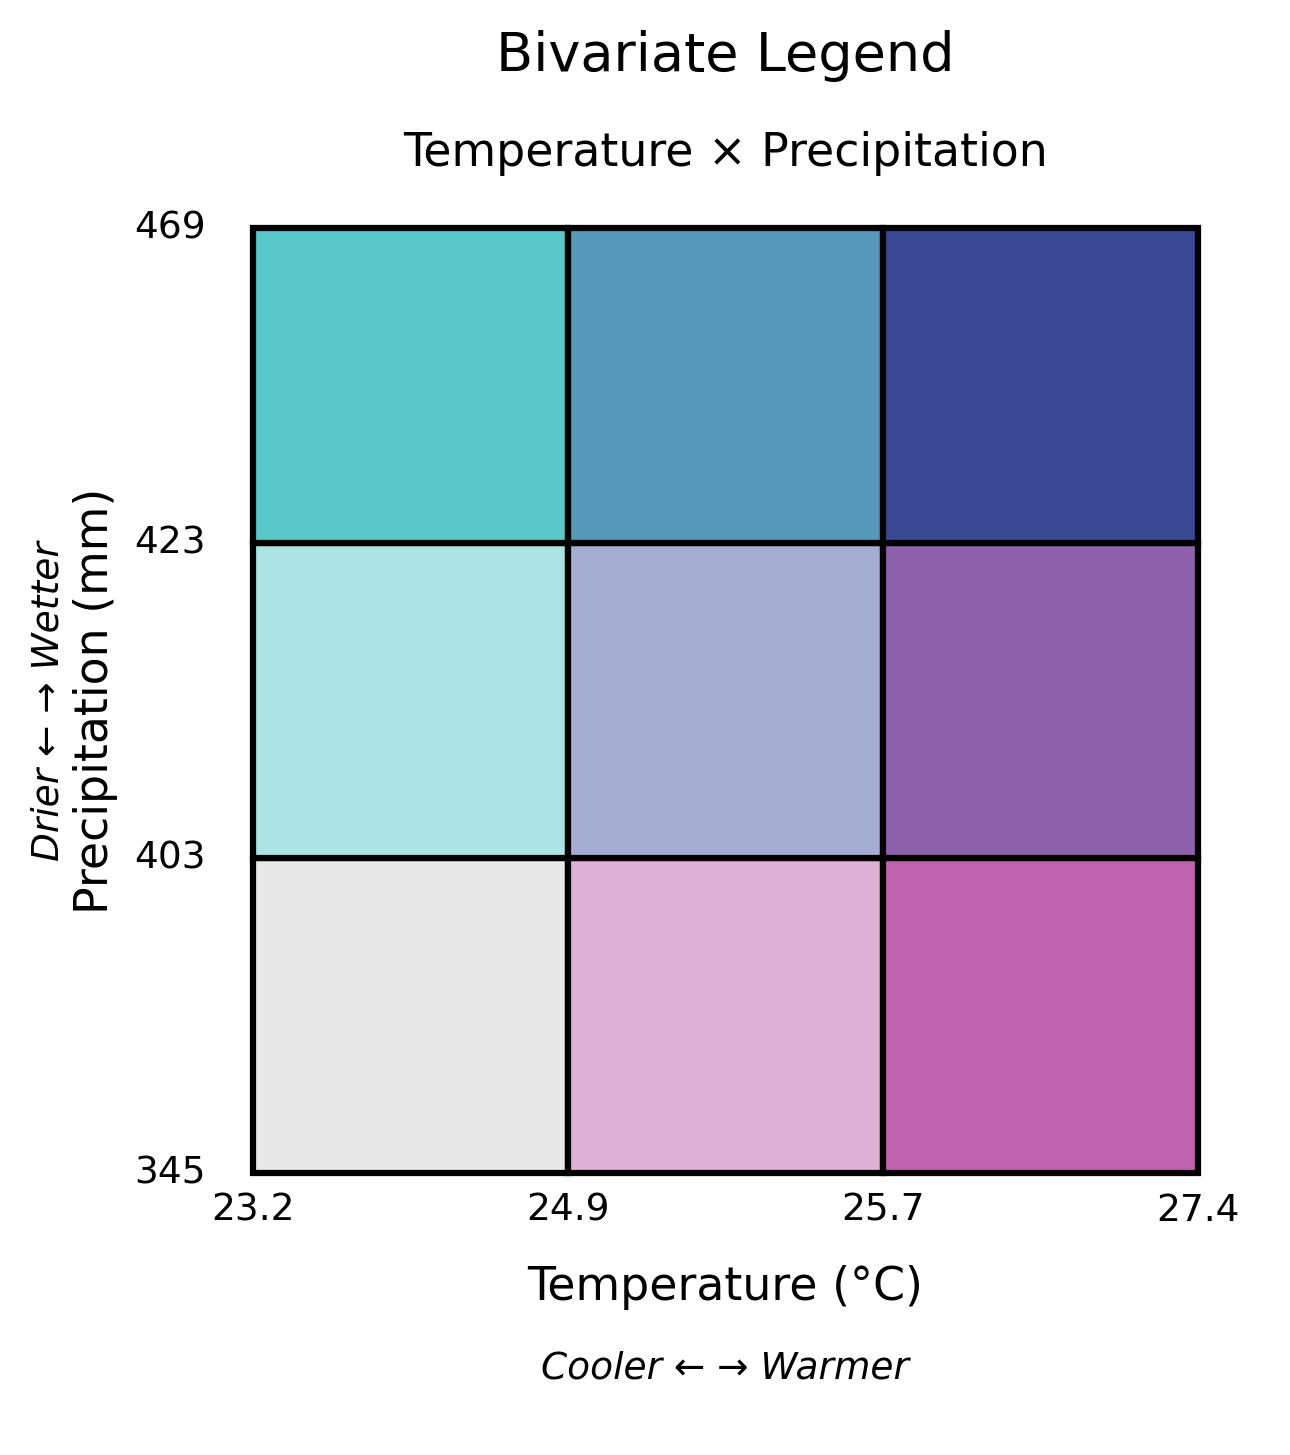
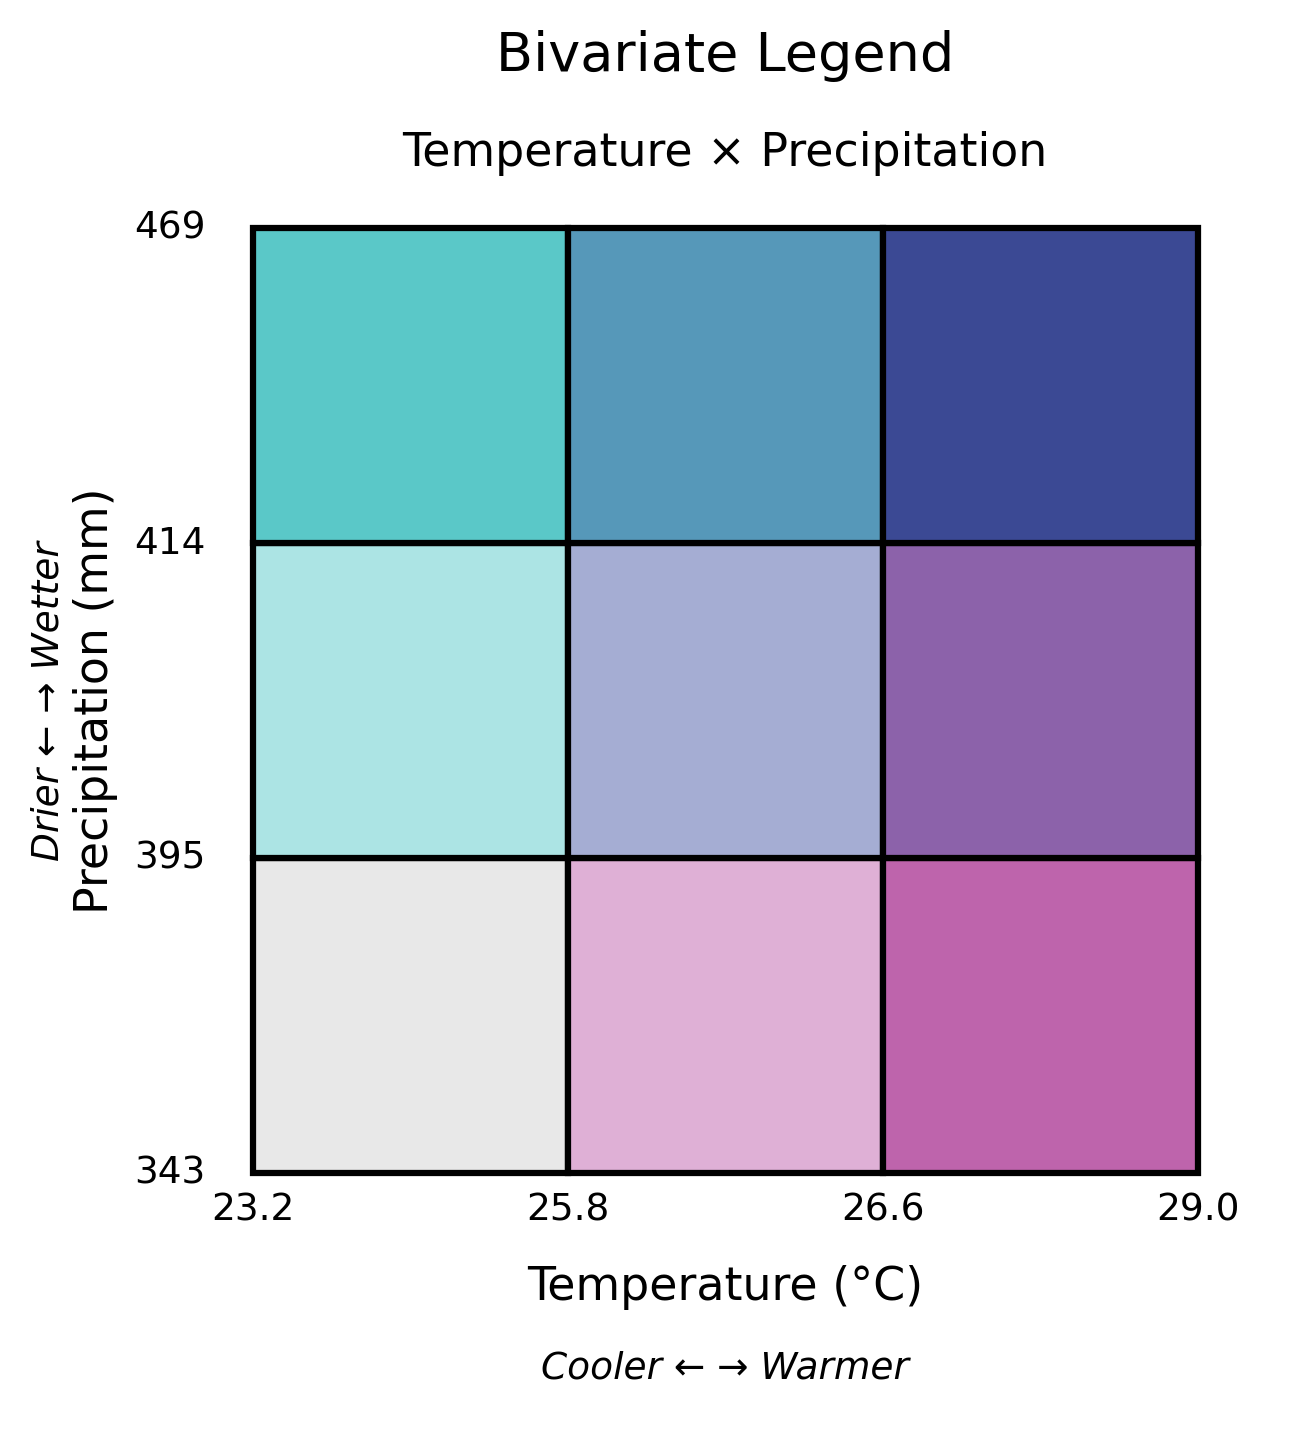
add more bivariate maps

diff --git a/visualization/bivariate_temp_precip_map/create_bivariate_maps.py b/visualization/bivariate_temp_precip_map/create_bivariate_maps.py
@@ -6,11 +6,16 @@ Uses a 3x3 bivariate color scheme where:
 - X-axis (columns): Temperature (low to high)
 - Y-axis (rows): Precipitation (low to high)
 
-Creates two maps:
+Creates maps for:
 1. GRIDMET baseline (2015-2025)
-2. INM-CM5-0 future projection (2035-2064)
+2. All 5 GCM future projections (2035-2064):
+   - ACCESS-ESM1-5
+   - IPSL-CM6A-LR
+   - CMCC-ESM2
+   - CNRM-CM6-1
+   - INM-CM5-0
 
-Both use the same legend for direct comparison.
+All use the same legend for direct comparison.
 """
 
 import numpy as np
@@ -28,8 +33,14 @@ DATA_DIR = Path(__file__).parent.parent.parent / 'data'
 GRIDMET_TEMP = DATA_DIR / 'temp' / 'processed' / 'seasonal' / 'temp_max_final_30m_2015-2025_jja.tif'
 GRIDMET_PRECIP = DATA_DIR / 'precipitation' / 'processed' / 'seasonal' / 'precip_final_30m_2015-2025_jja.tif'
 
-GCM_TEMP = DATA_DIR / 'climate_models' / 'temp_prediction' / '3_future_projections' / 'temp_max_future_INM-CM5-0_2035-2064_jja_30m.tif'
-GCM_PRECIP = DATA_DIR / 'climate_models' / 'precip_prediction' / '3_future_projections' / 'precip_future_INM-CM5-0_2035-2064_jja_30m.tif'
+# GCM models to process
+GCM_MODELS = [
+    'ACCESS-ESM1-5',
+    'IPSL-CM6A-LR',
+    'CMCC-ESM2',
+    'CNRM-CM6-1',
+    'INM-CM5-0'
+]
 
 # Output
 OUTPUT_DIR = Path(__file__).parent
@@ -329,8 +340,9 @@ def main():
     # Create output directory
     OUTPUT_DIR.mkdir(parents=True, exist_ok=True)
     
-    # First pass: load data to determine common breaks
+    # First pass: load all data to determine common breaks across ALL models
     print("\n--- Loading data to determine common class breaks ---")
+    print(f"Processing {len(GCM_MODELS)} climate models...")
     
     with rasterio.open(GRIDMET_TEMP) as src:
         baseline_temp_data = src.read(1)
@@ -340,25 +352,43 @@ def main():
         baseline_precip_data = src.read(1)
         precip_nodata = src.nodata
     
-    with rasterio.open(GCM_TEMP) as src:
-        future_temp_data = src.read(1)
-    
-    with rasterio.open(GCM_PRECIP) as src:
-        future_precip_data = src.read(1)
-    
-    # Get valid data
+    # Get valid baseline data
     baseline_valid = (baseline_temp_data != temp_nodata) & (baseline_precip_data != precip_nodata)
-    future_valid = (future_temp_data != temp_nodata) & (future_precip_data != precip_nodata)
-    
     baseline_temp_c = (baseline_temp_data[baseline_valid] - 273.15)
     baseline_precip = baseline_precip_data[baseline_valid]
-    future_temp_c = (future_temp_data[future_valid] - 273.15)
-    future_precip = future_precip_data[future_valid]
+    
+    # Collect all future model data
+    all_future_temp = [baseline_temp_c]
+    all_future_precip = [baseline_precip]
+    
+    for model in GCM_MODELS:
+        temp_path = DATA_DIR / 'climate_models' / 'temp_prediction' / '3_future_projections' / f'temp_max_future_{model}_2035-2064_jja_30m.tif'
+        precip_path = DATA_DIR / 'climate_models' / 'precip_prediction' / '3_future_projections' / f'precip_future_{model}_2035-2064_jja_30m.tif'
+        
+        if not temp_path.exists() or not precip_path.exists():
+            print(f"  Warning: Missing data for {model}, skipping from break calculation")
+            continue
+        
+        with rasterio.open(temp_path) as src:
+            temp_data = src.read(1)
+        with rasterio.open(precip_path) as src:
+            precip_data = src.read(1)
+        
+        valid = (temp_data != temp_nodata) & (precip_data != precip_nodata)
+        all_future_temp.append(temp_data[valid] - 273.15)
+        all_future_precip.append(precip_data[valid])
+    
+    # Combine all data for break calculation
+    combined_temp = np.concatenate(all_future_temp)
+    combined_precip = np.concatenate(all_future_precip)
     
     # Determine common breaks
-    temp_breaks, precip_breaks = determine_common_breaks(
-        baseline_temp_c, baseline_precip, future_temp_c, future_precip
-    )
+    temp_breaks = np.percentile(combined_temp, [0, 33.33, 66.67, 100])
+    precip_breaks = np.percentile(combined_precip, [0, 33.33, 66.67, 100])
+    
+    print("\nCommon class breaks (quantile-based across all models):")
+    print(f"  Temperature: {temp_breaks}")
+    print(f"  Precipitation: {precip_breaks}")
     
     # Create legend
     print("\n--- Creating bivariate legend ---")
@@ -379,19 +409,28 @@ def main():
         gridsize=80  # Number of hexagons
     )
     
-    # Process future
-    print("\n--- Processing INM-CM5-0 Future ---")
-    future_bivariate, extent, future_mask, future_temp_c, future_precip = load_and_classify_data(
-        GCM_TEMP, GCM_PRECIP, temp_breaks, precip_breaks,
-        'INM-CM5-0 Future (2035-2064)'
-    )
-    
-    create_bivariate_map(
-        future_temp_c, future_precip, future_mask, temp_breaks, precip_breaks, extent,
-        'INM-CM5-0 Future Projection (2035-2064)\n\nSummer (JJA)',
-        OUTPUT_DIR / 'bivariate_map_future_INM-CM5-0_jja.png',
-        gridsize=80  # Number of hexagons
-    )
+    # Process all future models
+    for model in GCM_MODELS:
+        print(f"\n--- Processing {model} Future ---")
+        
+        temp_path = DATA_DIR / 'climate_models' / 'temp_prediction' / '3_future_projections' / f'temp_max_future_{model}_2035-2064_jja_30m.tif'
+        precip_path = DATA_DIR / 'climate_models' / 'precip_prediction' / '3_future_projections' / f'precip_future_{model}_2035-2064_jja_30m.tif'
+        
+        if not temp_path.exists() or not precip_path.exists():
+            print(f"  Warning: Missing data files for {model}, skipping...")
+            continue
+        
+        future_bivariate, extent, future_mask, future_temp_c, future_precip = load_and_classify_data(
+            temp_path, precip_path, temp_breaks, precip_breaks,
+            f'{model} Future (2035-2064)'
+        )
+        
+        create_bivariate_map(
+            future_temp_c, future_precip, future_mask, temp_breaks, precip_breaks, extent,
+            f'{model} Future Projection (2035-2064)\n\nSummer (JJA)',
+            OUTPUT_DIR / f'bivariate_map_future_{model}_jja.png',
+            gridsize=80  # Number of hexagons
+        )
     
     print("\n" + "=" * 70)
     print("Bivariate maps complete!")
@@ -400,7 +439,8 @@ def main():
     print("\nFiles created:")
     print("  - bivariate_legend.png")
     print("  - bivariate_map_baseline_jja.png")
-    print("  - bivariate_map_future_INM-CM5-0_jja.png")
+    for model in GCM_MODELS:
+        print(f"  - bivariate_map_future_{model}_jja.png")
 
 
 if __name__ == '__main__':
